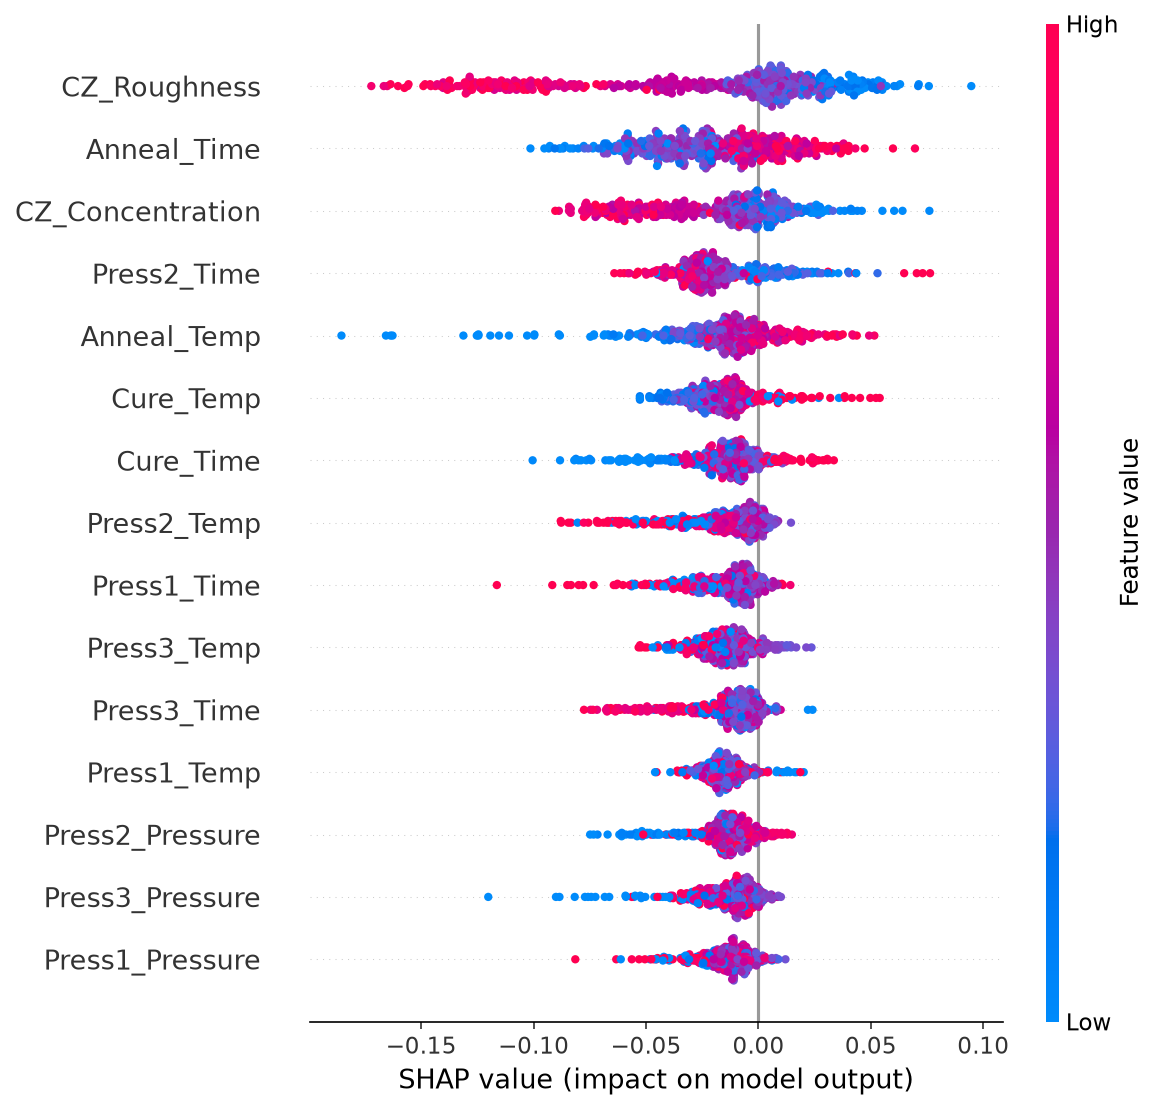
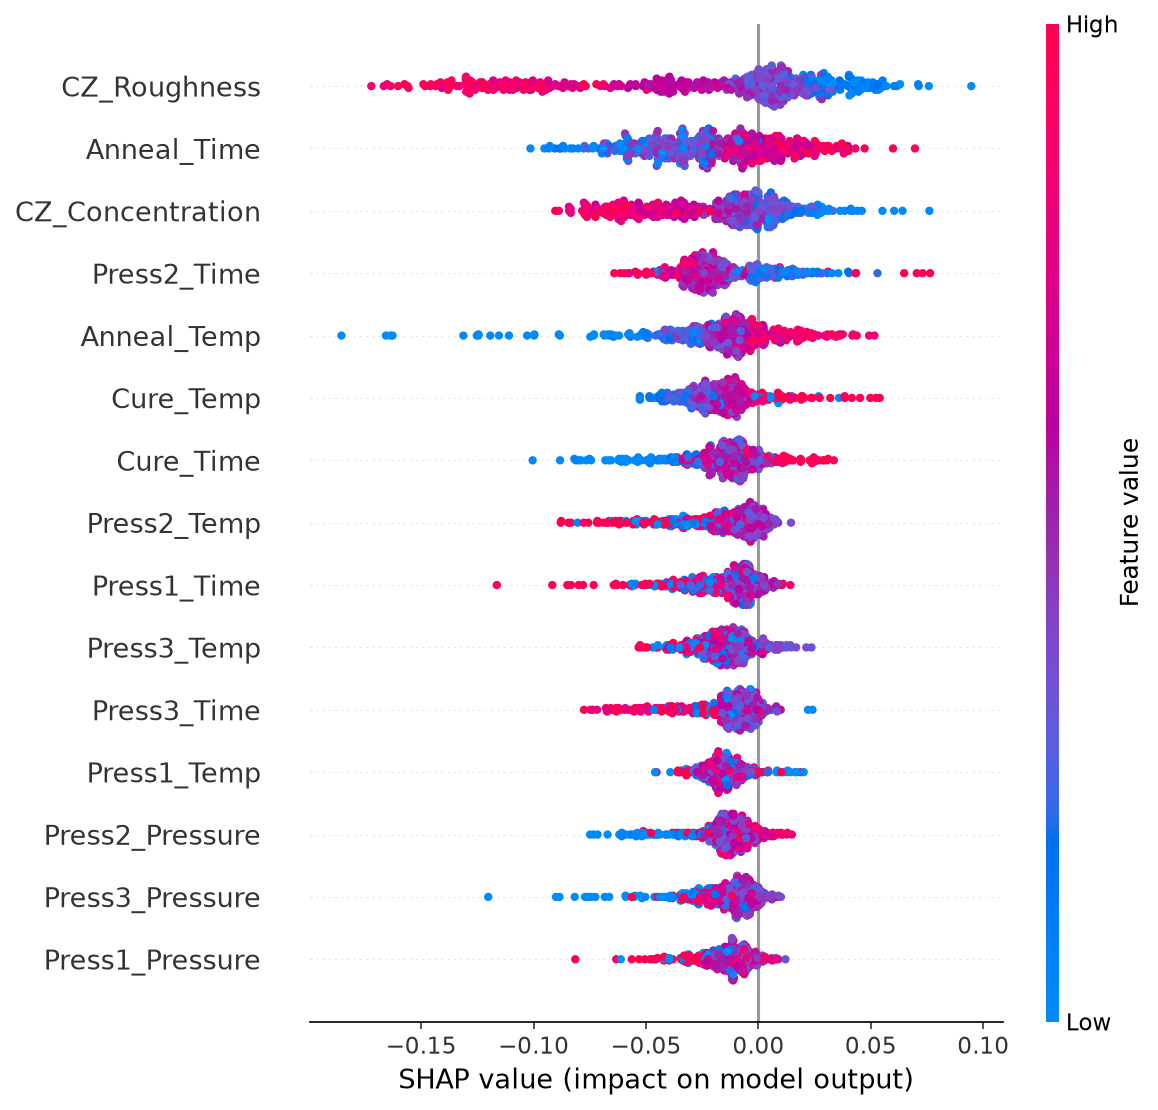
git add . git commit -m "feat: Add pipeline control dashboard" git push

Changed region(s): [[0.4974, 0.0613, 0.7772, 0.8883], [0.3731, 0.0613, 0.4974, 0.0919]]

diff --git a/src/pipeline/run_pipeline.py b/src/pipeline/run_pipeline.py
@@ -1,0 +1,164 @@
+from datetime import datetime
+from pathlib import Path
+import subprocess
+import sys
+import time
+
+
+PIPELINE_MODULES = [
+    ("Generate Process Data", "src.data.generate_process_data"),
+    ("Validate Process Data", "src.data.loader"),
+    ("Generate Trend Analysis", "src.analysis.trend"),
+    ("Generate SPC Analysis", "src.analysis.spc"),
+    ("Generate Correlation Analysis", "src.analysis.correlation"),
+    ("Generate Defect Analysis", "src.analysis.defect"),
+    ("Detect Abnormal LOTs", "src.analysis.outlier"),
+    ("Train and Save Model", "src.ml.train_model"),
+    ("Run Random Forest Analysis", "src.ml.random_forest"),
+    ("Run SHAP Analysis", "src.ml.shap_analysis"),
+    ("Run Batch Prediction", "src.ml.batch_predict"),
+    ("Generate PDF Report", "src.report.pdf_report"),
+]
+
+
+def get_project_root() -> Path:
+    return Path(__file__).resolve().parents[2]
+
+
+def write_log(message: str) -> None:
+    project_root = get_project_root()
+    report_dir = project_root / "report"
+    report_dir.mkdir(parents=True, exist_ok=True)
+
+    log_path = report_dir / "pipeline.log"
+
+    timestamp = datetime.now().strftime("%Y-%m-%d %H:%M:%S")
+    log_message = f"[{timestamp}] {message}"
+
+    print(log_message)
+
+    with log_path.open(
+        "a",
+        encoding="utf-8",
+    ) as log_file:
+        log_file.write(log_message + "\n")
+
+
+def run_module(
+    step_number: int,
+    step_name: str,
+    module_name: str,
+) -> bool:
+    separator = "=" * 70
+
+    write_log(separator)
+    write_log(
+        f"STEP {step_number:02d} START: {step_name}"
+    )
+    write_log(f"Module: {module_name}")
+
+    start_time = time.perf_counter()
+
+    process = subprocess.run(
+        [
+            sys.executable,
+            "-m",
+            module_name,
+        ],
+        cwd=get_project_root(),
+        text=True,
+        capture_output=True,
+        encoding="utf-8",
+        errors="replace",
+    )
+
+    elapsed_time = time.perf_counter() - start_time
+
+    if process.stdout.strip():
+        print(process.stdout)
+
+    if process.returncode != 0:
+        write_log(
+            f"STEP {step_number:02d} FAILED: {step_name}"
+        )
+
+        if process.stderr.strip():
+            print(process.stderr)
+
+        write_log(
+            f"Elapsed Time: {elapsed_time:.2f} seconds"
+        )
+
+        return False
+
+    write_log(
+        f"STEP {step_number:02d} COMPLETED: {step_name}"
+    )
+    write_log(
+        f"Elapsed Time: {elapsed_time:.2f} seconds"
+    )
+
+    return True
+
+
+def run_pipeline() -> None:
+    pipeline_start_time = time.perf_counter()
+
+    write_log("")
+    write_log("#" * 70)
+    write_log("MANUFACTURING AI PIPELINE START")
+    write_log("#" * 70)
+
+    completed_steps = 0
+
+    for step_number, (
+        step_name,
+        module_name,
+    ) in enumerate(
+        PIPELINE_MODULES,
+        start=1,
+    ):
+        success = run_module(
+            step_number=step_number,
+            step_name=step_name,
+            module_name=module_name,
+        )
+
+        if not success:
+            write_log("")
+            write_log("PIPELINE STOPPED")
+            write_log(
+                f"Failed Step: {step_number:02d} - {step_name}"
+            )
+            write_log(
+                f"Completed Steps: "
+                f"{completed_steps}/{len(PIPELINE_MODULES)}"
+            )
+
+            raise RuntimeError(
+                f"Pipeline failed at Step {step_number}: "
+                f"{step_name}"
+            )
+
+        completed_steps += 1
+
+    total_elapsed_time = (
+        time.perf_counter() - pipeline_start_time
+    )
+
+    write_log("")
+    write_log("#" * 70)
+    write_log("MANUFACTURING AI PIPELINE COMPLETED")
+    write_log(
+        f"Completed Steps: "
+        f"{completed_steps}/{len(PIPELINE_MODULES)}"
+    )
+    write_log(
+        f"Total Elapsed Time: "
+        f"{total_elapsed_time:.2f} seconds"
+    )
+    write_log("#" * 70)
+
+
+if __name__ == "__main__":
+    run_pipeline()

diff --git a/src/dashboard/5_Pipeline_Control.py b/src/dashboard/5_Pipeline_Control.py
@@ -1,0 +1,118 @@
+from pathlib import Path
+import subprocess
+import sys
+
+import streamlit as st
+
+
+st.set_page_config(
+    page_title="Pipeline Control",
+    page_icon="⚙️",
+    layout="wide",
+)
+
+
+def get_project_root() -> Path:
+    return Path(__file__).resolve().parents[3]
+
+
+def get_log_path() -> Path:
+    return get_project_root() / "report" / "pipeline.log"
+
+
+def read_pipeline_log() -> str:
+    log_path = get_log_path()
+
+    if not log_path.exists():
+        return "아직 생성된 Pipeline 로그가 없습니다."
+
+    return log_path.read_text(
+        encoding="utf-8",
+        errors="replace",
+    )
+
+
+def run_pipeline() -> subprocess.CompletedProcess:
+    return subprocess.run(
+        [
+            sys.executable,
+            "-m",
+            "src.pipeline.run_pipeline",
+        ],
+        cwd=get_project_root(),
+        text=True,
+        capture_output=True,
+        encoding="utf-8",
+        errors="replace",
+    )
+
+
+def main() -> None:
+    st.title("Manufacturing AI Pipeline Control")
+
+    st.write(
+        "데이터 생성부터 분석, 모델 학습, SHAP 및 PDF 보고서 생성까지 "
+        "전체 Pipeline을 한 번에 실행합니다."
+    )
+
+    col1, col2 = st.columns(2)
+
+    with col1:
+        run_button = st.button(
+            "Run Full Pipeline",
+            type="primary",
+            use_container_width=True,
+        )
+
+    with col2:
+        refresh_button = st.button(
+            "Refresh Log",
+            use_container_width=True,
+        )
+
+    if run_button:
+        with st.spinner("전체 Pipeline을 실행하고 있습니다."):
+            result = run_pipeline()
+
+        if result.returncode == 0:
+            st.success("Pipeline이 정상적으로 완료되었습니다.")
+        else:
+            st.error("Pipeline 실행 중 오류가 발생했습니다.")
+
+        if result.stdout:
+            st.subheader("Pipeline Output")
+            st.code(result.stdout, language="text")
+
+        if result.stderr:
+            st.subheader("Error Output")
+            st.code(result.stderr, language="text")
+
+    if refresh_button:
+        st.rerun()
+
+    st.divider()
+    st.subheader("Pipeline Log")
+
+    log_text = read_pipeline_log()
+
+    st.code(
+        log_text,
+        language="text",
+    )
+
+    log_path = get_log_path()
+
+    if log_path.exists():
+        log_data = log_path.read_bytes()
+
+        st.download_button(
+            label="Download Pipeline Log",
+            data=log_data,
+            file_name="pipeline.log",
+            mime="text/plain",
+            use_container_width=True,
+        )
+
+
+if __name__ == "__main__":
+    main()

diff --git a/src/analysis/spc.py b/src/analysis/spc.py
@@ -3,8 +3,8 @@ from pathlib import Path
 import matplotlib.pyplot as plt
 import pandas as pd
 
-from data.loader import load_process_data
-from process_spec import PROCESS_SPEC
+from src.data.loader import load_process_data
+from src.process_spec import PROCESS_SPEC
 
 
 SPC_COLUMNS = [

diff --git a/src/analysis/correlation.py b/src/analysis/correlation.py
@@ -3,7 +3,7 @@ from pathlib import Path
 import matplotlib.pyplot as plt
 import pandas as pd
 
-from data.loader import load_process_data
+from src.data.loader import load_process_data
 
 
 CORR_COLUMNS = [

diff --git a/src/analysis/defect.py b/src/analysis/defect.py
@@ -3,7 +3,7 @@ from pathlib import Path
 import matplotlib.pyplot as plt
 import pandas as pd
 
-from data.loader import load_process_data
+from src.data.loader import load_process_data
 
 
 COMPARE_COLUMNS = [

diff --git a/src/analysis/trend.py b/src/analysis/trend.py
@@ -3,7 +3,7 @@ from pathlib import Path
 import matplotlib.pyplot as plt
 import pandas as pd
 
-from data.loader import load_process_data
+from src.data.loader import load_process_data
 
 
 TREND_COLUMNS = [